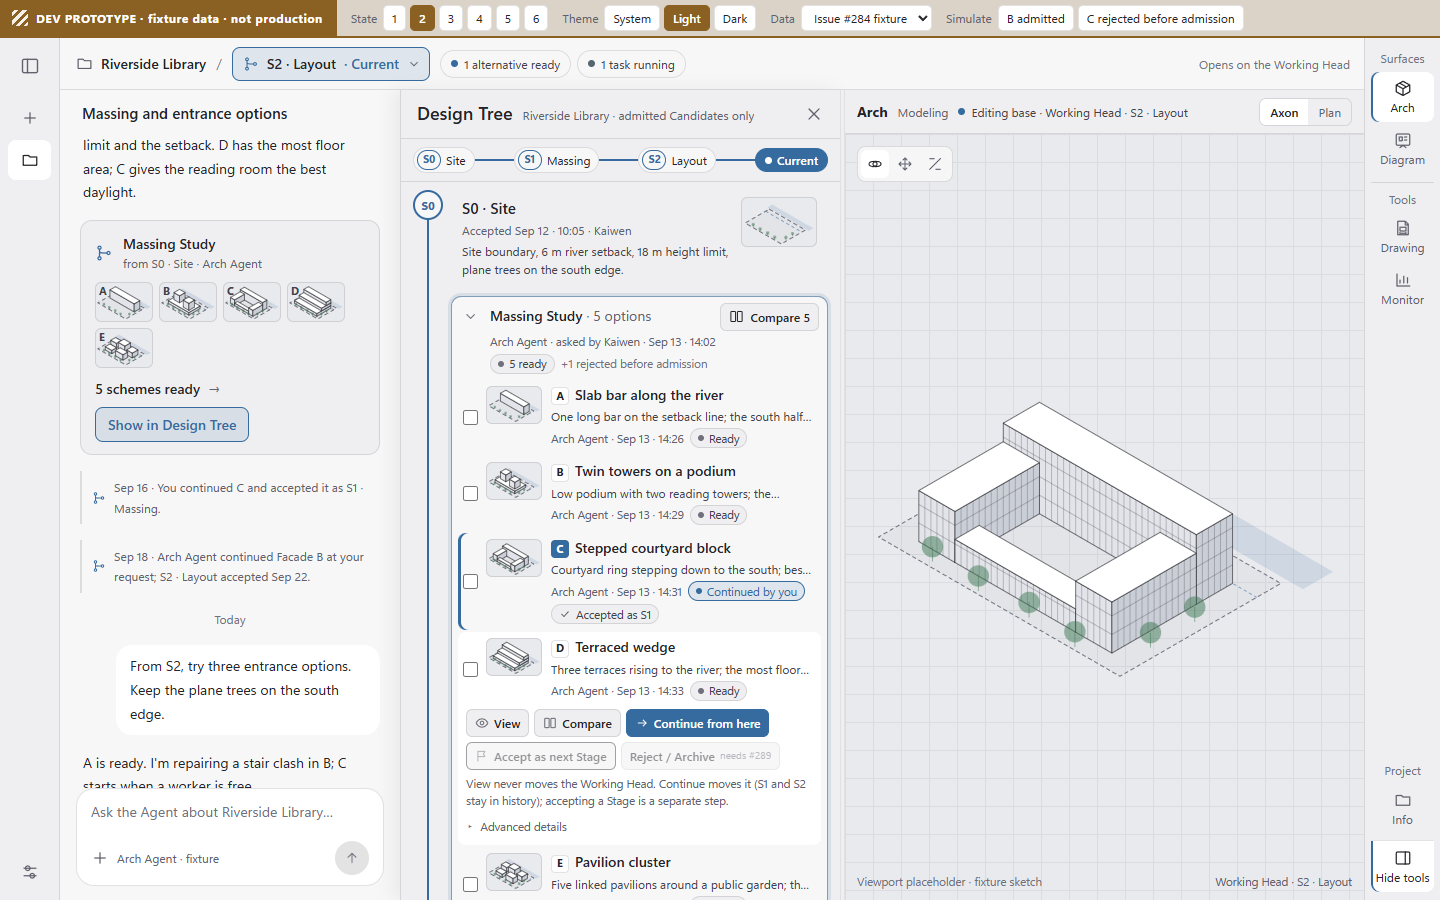
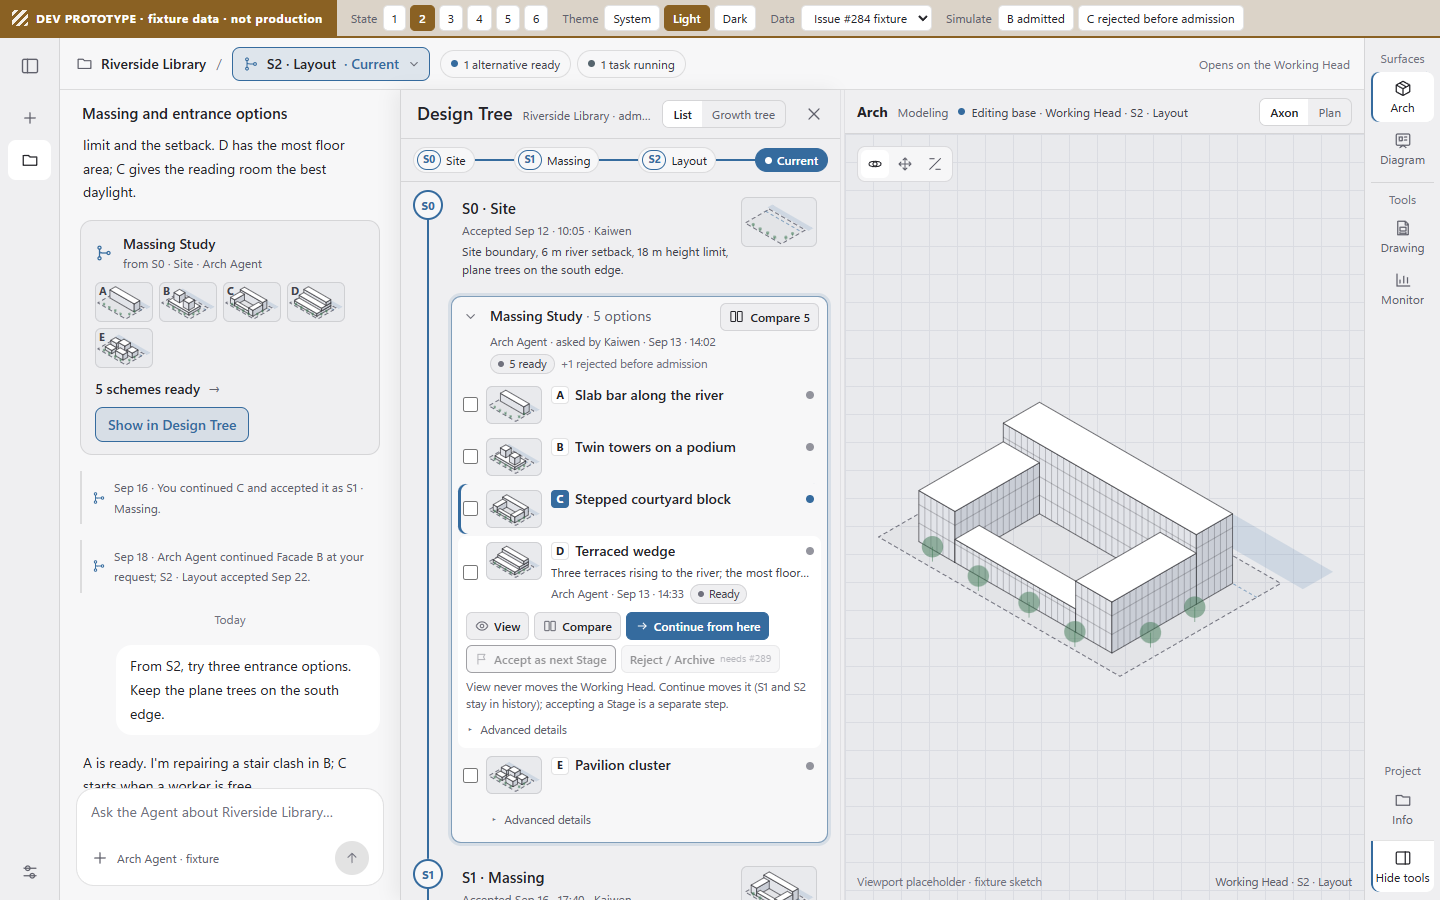
GH-284/branch-view: refresh the list screenshots for the compact rows

Changed region(s): [[0.2812, 0.4356, 0.5625, 1.0], [0.4375, 0.1244, 0.5312, 0.1556]]

diff --git a/docs/2026-09-25-candidate-graph-interaction.md b/docs/2026-09-25-candidate-graph-interaction.md
@@ -268,7 +268,7 @@ The prototype is at [`prototypes/candidate-graph/`](prototypes/candidate-graph/R
 
 **Growth tree.** After reviewing the screenshots, Kaiwen described the design history as one branch that keeps getting longer: at each Stage he chooses one scheme and deepens it, so the chosen option is the trunk and keeps growing, while the options not taken stay short dead-end twigs. Continuing later from an old twig starts a new branch there, and the abandoned future stays visible but muted. The Design Tree header therefore has a `List | Growth tree` toggle (`#view=tree`). The growth tree borrows only the line grammar of a bracket diagram (solid for the chosen path, dashed for the rest), not its converging topology. The Working Head's lineage is one continuous stroke from left to right, and twigs alternate above and below it at each decision point, N − 1 per Study. Because a tree has E = V − 1 edges and every side subtree keeps its own x-range, the drawing never needs a crossing; `capture.mjs` checks this. The canvas copies MonkeyBoard's navigation: wheel zoom at the cursor, drag, Space or middle-mouse pan, a `− 100% +` bar with Fit, and the same grid.
 
-**Density.** Kaiwen also found the information density too high. The canvas shows only five element kinds (trunk, Stage milestones, option twigs, the Current tip with Accept, and running or queued placeholders) and uses semantic zoom. Zoomed out, it shows only the trunk, Stage labels and counts; the middle level adds thumbnails and short names; close up adds a one-line summary and status. Author, time and runs appear only in the side card of a selected node. The list rows were cut back the same way: thumbnail, letter, name and a status dot, with details on the selected row. Screenshots 01–08 still show the list as reviewed in PR #298.
+**Density.** Kaiwen also found the information density too high. The canvas shows only five element kinds (trunk, Stage milestones, option twigs, the Current tip with Accept, and running or queued placeholders) and uses semantic zoom. Zoomed out, it shows only the trunk, Stage labels and counts; the middle level adds thumbnails and short names; close up adds a one-line summary and status. Author, time and runs appear only in the side card of a selected node. The list rows were cut back the same way: thumbnail, letter, name and a status dot, with details on the selected row. Screenshots 01–08 show the compact list.
 
 ![Growth tree at Fit: the Working Head's lineage as one trunk, options not taken as twigs above and below, and the selected option's side card](prototypes/candidate-graph/screenshots/09-growth-tree.png)
 

diff --git a/docs/prototypes/candidate-graph/README.md b/docs/prototypes/candidate-graph/README.md
@@ -50,11 +50,10 @@ Also captured: `screenshots/07-narrow.png` (390×844, state 2). At that width th
 tree is a full-height sheet under the dev bar. `screenshots/08-dark-tree-open.png`
 shows state 2 in the dark theme.
 
-Screenshots 01–08 record the list view as reviewed in PR #298, so they are kept
-byte-identical. Since then the list rows show only a thumbnail, letter, name
-and one status dot; the summary, author and time appear on the selected row
-only (`screenshots/12-list-compact.png`, state 2). The drawer header also has
-the `List | Growth tree` toggle.
+Screenshots 01–08 show the current list. Its rows have only a thumbnail,
+letter, name and one status dot. The summary, author and time appear only on
+the selected row (see also `screenshots/12-list-compact.png`, state 2). The
+drawer header has the `List | Growth tree` toggle.
 
 ## Growth tree
 
